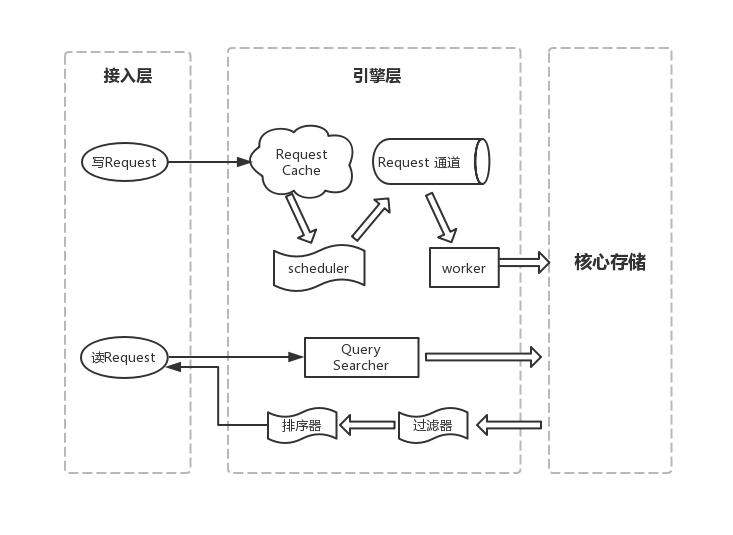
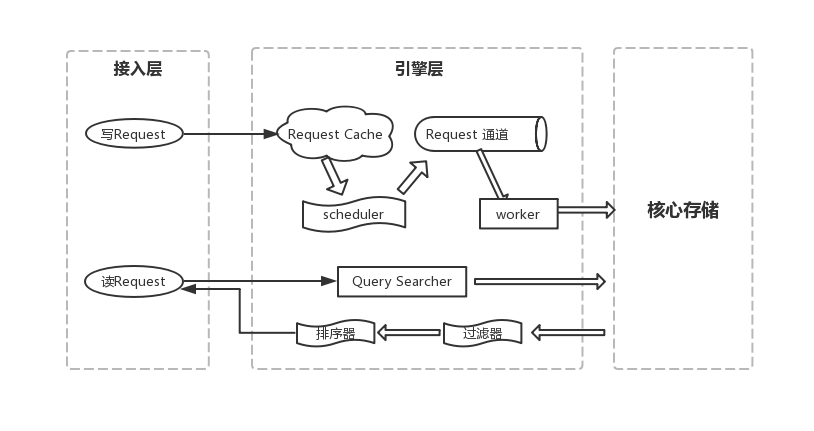
接入层抽离

Changed region(s): [[0.06, 0.0905, 0.9304, 0.9049]]

diff --git a/controller/http.go b/controller/http.go
@@ -1,4 +1,4 @@
-package engine
+package controller
 
 /*
  * 接口层封装，相当于controller层
@@ -6,6 +6,7 @@ package engine
 import (
 	"net/http"
 	"io"
+	"github.com/hq-cml/spider-engine/engine"
 	"github.com/hq-cml/spider-engine/basic"
 	"github.com/hq-cml/spider-engine/utils/helper"
 	"github.com/hq-cml/spider-engine/utils/log"
@@ -13,9 +14,26 @@ import (
 	"encoding/json"
 )
 
+//注册路由
+func RegisterRouter() {
+	http.HandleFunc("/_status", Status)
+	http.HandleFunc("/_createDb", CreateDatabase)
+	http.HandleFunc("/_dropDb", DropDatabase)
+	http.HandleFunc("/_createTable", CreateTable)
+	http.HandleFunc("/_dropTable", DropTable)
+	http.HandleFunc("/_addField", AddField)
+	http.HandleFunc("/_deleteField", DeleteField)
+	http.HandleFunc("/_addDoc", AddDoc)
+	http.HandleFunc("/_getDoc", GetDoc)
+	http.HandleFunc("/_deleteDoc", DeleteDoc)
+	http.HandleFunc("/_updateDoc", UpdateDoc)
+	http.HandleFunc("/_search", SearchDocs)
+	//http.HandleFunc("/_test", TestDocs)
+}
+
 // hello world, the web server
 func Status(w http.ResponseWriter, req *http.Request) {
-	io.WriteString(w, helper.JsonEncodeIndent(g_spider_ins.GetStatus()))
+	io.WriteString(w, helper.JsonEncodeIndent(engine.SpdInstance().GetStatus()))
 }
 
 //建库
@@ -27,7 +45,7 @@ func CreateDatabase(w http.ResponseWriter, req *http.Request) {
 		io.WriteString(w, helper.JsonEncode(basic.NewErrorResult(err.Error())))
 		return
 	}
-	p := DatabaseParam{}
+	p := engine.DatabaseParam{}
 	err = json.Unmarshal(result, &p)
 	if err != nil {
 		log.Errf("CreateDatabase Error: %v", err)
@@ -36,7 +54,7 @@ func CreateDatabase(w http.ResponseWriter, req *http.Request) {
 	}
 
 	//操作
-	err = g_spider_ins.CreateDatabase(&p)
+	err = engine.SpdInstance().CreateDatabase(&p)
 	if err != nil {
 		io.WriteString(w, helper.JsonEncode(basic.NewErrorResult(err.Error())))
 		return
@@ -55,7 +73,7 @@ func DropDatabase(w http.ResponseWriter, req *http.Request) {
 		io.WriteString(w, helper.JsonEncode(basic.NewErrorResult(err.Error())))
 		return
 	}
-	p := DatabaseParam{}
+	p := engine.DatabaseParam{}
 	err = json.Unmarshal(result, &p)
 	if err != nil {
 		log.Errf("DropDatabase Error: %v", err)
@@ -64,7 +82,7 @@ func DropDatabase(w http.ResponseWriter, req *http.Request) {
 	}
 
 	//操作
-	err = g_spider_ins.DropDatabase(&p)
+	err = engine.SpdInstance().DropDatabase(&p)
 	if err != nil {
 		io.WriteString(w, helper.JsonEncode(basic.NewErrorResult(err.Error())))
 		return
@@ -83,7 +101,7 @@ func CreateTable(w http.ResponseWriter, req *http.Request) {
 		io.WriteString(w, helper.JsonEncode(basic.NewErrorResult(err.Error())))
 		return
 	}
-	p := CreateTableParam{}
+	p := engine.CreateTableParam{}
 	err = json.Unmarshal(result, &p)
 	if err != nil {
 		log.Errf("CreateDatabase Error: %v", err)
@@ -92,7 +110,7 @@ func CreateTable(w http.ResponseWriter, req *http.Request) {
 	}
 
 	//操作
-	err = g_spider_ins.CreateTable(&p)
+	err = engine.SpdInstance().CreateTable(&p)
 	if err != nil {
 		io.WriteString(w, helper.JsonEncode(basic.NewErrorResult(err.Error())))
 		return
@@ -111,7 +129,7 @@ func DropTable(w http.ResponseWriter, req *http.Request) {
 		io.WriteString(w, helper.JsonEncode(basic.NewErrorResult(err.Error())))
 		return
 	}
-	p := CreateTableParam{}
+	p := engine.CreateTableParam{}
 	err = json.Unmarshal(result, &p)
 	if err != nil {
 		log.Errf("CreateDatabase Error: %v", err)
@@ -120,7 +138,7 @@ func DropTable(w http.ResponseWriter, req *http.Request) {
 	}
 
 	//操作
-	err = g_spider_ins.DropTable(&p)
+	err = engine.SpdInstance().DropTable(&p)
 	if err != nil {
 		io.WriteString(w, helper.JsonEncode(basic.NewErrorResult(err.Error())))
 		return
@@ -139,7 +157,7 @@ func AddField(w http.ResponseWriter, req *http.Request) {
 		io.WriteString(w, helper.JsonEncode(basic.NewErrorResult(err.Error())))
 		return
 	}
-	p := AddFieldParam{}
+	p := engine.AddFieldParam{}
 	err = json.Unmarshal(result, &p)
 	if err != nil {
 		log.Errf("AddField Error: %v", err)
@@ -148,7 +166,7 @@ func AddField(w http.ResponseWriter, req *http.Request) {
 	}
 
 	//操作
-	err = g_spider_ins.AddField(&p)
+	err = engine.SpdInstance().AddField(&p)
 	if err != nil {
 		io.WriteString(w, helper.JsonEncode(basic.NewErrorResult(err.Error())))
 		return
@@ -167,7 +185,7 @@ func DeleteField(w http.ResponseWriter, req *http.Request) {
 		io.WriteString(w, helper.JsonEncode(basic.NewErrorResult(err.Error())))
 		return
 	}
-	p := AddFieldParam{}
+	p := engine.AddFieldParam{}
 	err = json.Unmarshal(result, &p)
 	if err != nil {
 		log.Errf("DeleteField Error: %v", err)
@@ -176,7 +194,7 @@ func DeleteField(w http.ResponseWriter, req *http.Request) {
 	}
 
 	//操作
-	err = g_spider_ins.DeleteField(&p)
+	err = engine.SpdInstance().DeleteField(&p)
 	if err != nil {
 		io.WriteString(w, helper.JsonEncode(basic.NewErrorResult(err.Error())))
 		return
@@ -195,7 +213,7 @@ func AddDoc(w http.ResponseWriter, req *http.Request) {
 		io.WriteString(w, helper.JsonEncode(basic.NewErrorResult(err.Error())))
 		return
 	}
-	p := AddDocParam{}
+	p := engine.AddDocParam{}
 	err = json.Unmarshal(result, &p)
 	if err != nil {
 		log.Errf("AddDoc Error: %v", err)
@@ -204,7 +222,7 @@ func AddDoc(w http.ResponseWriter, req *http.Request) {
 	}
 
 	//操作
-	primaryKey, err := g_spider_ins.AddDoc(&p)
+	primaryKey, err := engine.SpdInstance().AddDoc(&p)
 	if err != nil {
 		io.WriteString(w, helper.JsonEncode(basic.NewErrorResult(err.Error())))
 		return
@@ -222,7 +240,7 @@ func GetDoc(w http.ResponseWriter, req *http.Request) {
 	table := query["table"][0]
 	primaryKey := query["primary_key"][0]
 
-	doc, err := g_spider_ins.GetDoc(dbName, table, primaryKey)
+	doc, err := engine.SpdInstance().GetDoc(dbName, table, primaryKey)
 	if err != nil {
 		io.WriteString(w, helper.JsonEncode(basic.NewErrorResult(err.Error())))
 		return
@@ -241,7 +259,7 @@ func UpdateDoc(w http.ResponseWriter, req *http.Request) {
 		io.WriteString(w, helper.JsonEncode(basic.NewErrorResult(err.Error())))
 		return
 	}
-	p := AddDocParam{}
+	p := engine.AddDocParam{}
 	err = json.Unmarshal(result, &p)
 	if err != nil {
 		log.Errf("UpdateDoc Error: %v", err)
@@ -249,7 +267,7 @@ func UpdateDoc(w http.ResponseWriter, req *http.Request) {
 		return
 	}
 
-	err = g_spider_ins.UpdateDoc(&p)
+	err = engine.SpdInstance().UpdateDoc(&p)
 	if err != nil {
 		io.WriteString(w, helper.JsonEncode(basic.NewErrorResult(err.Error())))
 		return
@@ -268,7 +286,7 @@ func DeleteDoc(w http.ResponseWriter, req *http.Request) {
 		io.WriteString(w, helper.JsonEncode(basic.NewErrorResult(err.Error())))
 		return
 	}
-	p := DocParam{}
+	p := engine.DocParam{}
 	err = json.Unmarshal(result, &p)
 	if err != nil {
 		log.Errf("DeleteDoc Error: %v", err)
@@ -276,7 +294,7 @@ func DeleteDoc(w http.ResponseWriter, req *http.Request) {
 		return
 	}
 
-	err = g_spider_ins.DeleteDoc(&p)
+	err = engine.SpdInstance().DeleteDoc(&p)
 	if err != nil {
 		io.WriteString(w, helper.JsonEncode(basic.NewErrorResult(err.Error())))
 		return
@@ -294,7 +312,7 @@ func SearchDocs(w http.ResponseWriter, req *http.Request) {
 		io.WriteString(w, helper.JsonEncode(basic.NewErrorResult(err.Error())))
 		return
 	}
-	p := SearchParam{}
+	p := engine.SearchParam{}
 	err = json.Unmarshal(result, &p)
 	if err != nil {
 		log.Errf("DeleteDoc Error: %v", err)
@@ -302,7 +320,7 @@ func SearchDocs(w http.ResponseWriter, req *http.Request) {
 		return
 	}
 
-	docs, err := g_spider_ins.SearchDocs(&p)
+	docs, err := engine.SpdInstance().SearchDocs(&p)
 	if err != nil {
 		io.WriteString(w, helper.JsonEncode(basic.NewErrorResult(err.Error())))
 		return
@@ -314,7 +332,7 @@ func SearchDocs(w http.ResponseWriter, req *http.Request) {
 
 //搜索
 //func TestDocs(w http.ResponseWriter, req *http.Request) {
-//	g_spider_ins.DbMap["sp_db"].TableMap["user"].RealDocNum
+//	engine.SpdInstance().DbMap["sp_db"].TableMap["user"].RealDocNum
 //
 //	io.WriteString(w, "aa")
 //	return

diff --git a/engine/spider.go b/engine/spider.go
@@ -41,6 +41,10 @@ func RegisterInstance(ins *SpiderEngine) {
 	g_spider_ins = ins
 }
 
+func SpdInstance() *SpiderEngine {
+	return g_spider_ins
+}
+
 //句柄初始化
 func InitSpider(path string, ver string) (*SpiderEngine, error) {
 	//路径修正
@@ -129,7 +133,7 @@ func (se *SpiderEngine) Start() {
 		}
 
 		//注册路由
-		se.RegisterRouter()
+		//controller.RegisterRouter()
 
 		//启动http服务
 		addr := fmt.Sprintf("%s:%s", basic.GlobalConf.BindIp, basic.GlobalConf.Port)

diff --git a/main.go b/main.go
@@ -12,6 +12,7 @@ import (
 	"github.com/hq-cml/spider-engine/engine"
 	"github.com/hq-cml/spider-engine/utils/log"
 	"fmt"
+	"github.com/hq-cml/spider-engine/controller"
 )
 
 //全局配置
@@ -43,6 +44,8 @@ func main() {
 	}
 	//注册单例
 	engine.RegisterInstance(se)
+	//注册路由
+	controller.RegisterRouter()
 	//启动
 	se.Start()
 	fmt.Println("The spider is running...")
